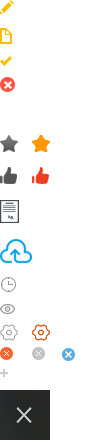
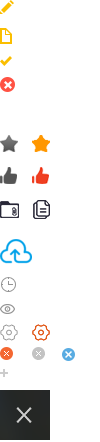
1111

Changed region(s): [[0.0, 0.4412, 0.21, 0.5294], [0.33, 0.4412, 0.51, 0.5]]

diff --git a/static/css/style.css b/static/css/style.css
@@ -560,7 +560,9 @@ html .fc,.fc table{font-size:1em;background:#f2f3f5}.fc td,.fc th{padding:0;vert
 .document-list-control li{margin-right: 15px;}
 .document_list li{margin-bottom: 5px; padding:0 15px;height: 42px; background: #fff; line-height: 42px;font-size: 16px; color:#333;}
 .document_list li a{color:#333;}
-.document_list .document-tit{padding-left:25px;float: left; background: url(../images/add_icon.png) no-repeat 0 -190px;}
+.document_list .document-tit{float: left;}
+.document_list .txt-icon{width:25px; height: 30px;float:left; background: url(../images/add_icon.png) no-repeat -32px -190px;}
+.document_list .download-icon{width:25px; height: 30px;float:left; background: url(../images/add_icon.png) no-repeat 0 -190px;}
 .document_list .operation-span{float: right; font-size:14px; color: #999;}
 .document_list .operation-span em{margin-right: 20px;}
 /*上传资料*/

diff --git a/application/views/online_doc.html b/application/views/online_doc.html
@@ -55,7 +55,7 @@
                         <ul class="document_list">
                             {{foreach from=$list_doc.res_list item=item}}
                             <li>
-                                <a href="{{site_url url='document/view_doc'}}/{{$item.id}}"><span class="document-tit">{{$item.title}}</span>
+                                <a href="{{site_url url='document/view_doc'}}/{{$item.id}}"><span class="document-tit"><em class="download-icon"></em>{{$item.title}}</span>
                                     <span class="operation-span"><em>浏览:{{$item.look}}次</em><em>收藏:{{$item.house}}次</em><em>点赞:{{$item.likes}}</em></span></a>
                             </li>
                             {{/foreach}}
